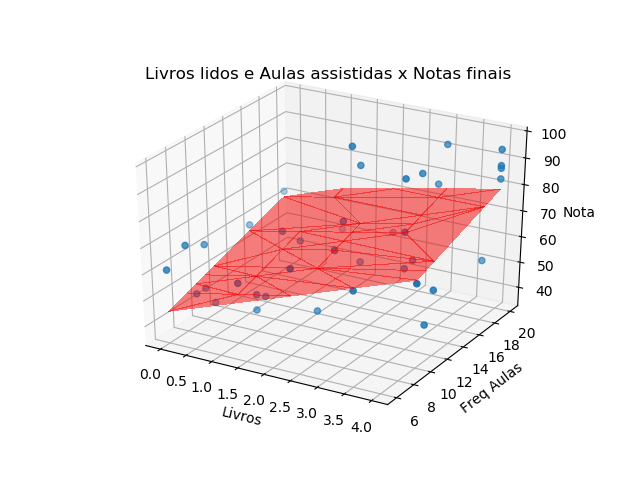
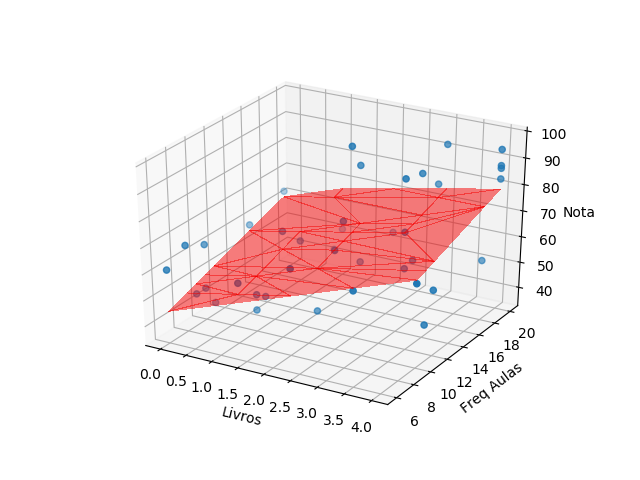
ajustes

Changed region(s): [[0.2188, 0.125, 0.8125, 0.1875]]

diff --git a/Problema1/nac1_agua.py b/Problema1/nac1_agua.py
@@ -29,8 +29,8 @@ temp_F_plot = temp_F.reshape(-1, 1)
 # plotando pontos sem regressão linear
 plt.scatter(temp_F_plot, pressure, color='blue')
 plt.xlabel("Temperatura (F)")
-plt.ylabel("Pressão (bar)")
-plt.title("Ponto de ebulição da água em diferentes pressões barométricas")
+plt.ylabel("Pressão (inHg)")
+# plt.title("Ponto de ebulição da água em diferentes pressões barométricas")
 plt.savefig("temperatura_pressao_noregression.png")
 
 # X = np.asarray([ 1994.,  1995.,  1996.,  1997.,  1998.,  1999.])
@@ -50,8 +50,8 @@ y_pressure_predict = linear_reg.predict(temp_F_plot)
 plt.scatter(temp_F_plot, pressure, color='blue')
 plt.plot(temp_F_plot, y_pressure_predict, color='red')
 plt.xlabel("Temperatura (F)")
-plt.ylabel("Pressão (bar)")
-plt.title("Regressão Linear: ponto de ebulição da água em \ndiferentes pressões barométricas")
+plt.ylabel("Pressão (inHg)")
+# plt.title("Regressão Linear: ponto de ebulição da água em \ndiferentes pressões barométricas")
 plt.savefig("temperatura_pressao_regression.png")
 
 # valor de pressão em 200F

diff --git a/Problema2/nac1_livros_aulas_notas.py b/Problema2/nac1_livros_aulas_notas.py
@@ -47,6 +47,6 @@ ax.plot_trisurf(qtd_livros, freq_aulas, z_predict, linewidth=0, antialiased=Fals
 ax.set_xlabel('Livros')
 ax.set_ylabel('Freq Aulas')
 ax.set_zlabel('Nota')
-plt.title("Livros lidos e Aulas assistidas x Notas finais")
+# plt.title("Livros lidos e Aulas assistidas x Notas finais")
 plt.savefig("livros_aulas_notas.png")
 plt.show()
